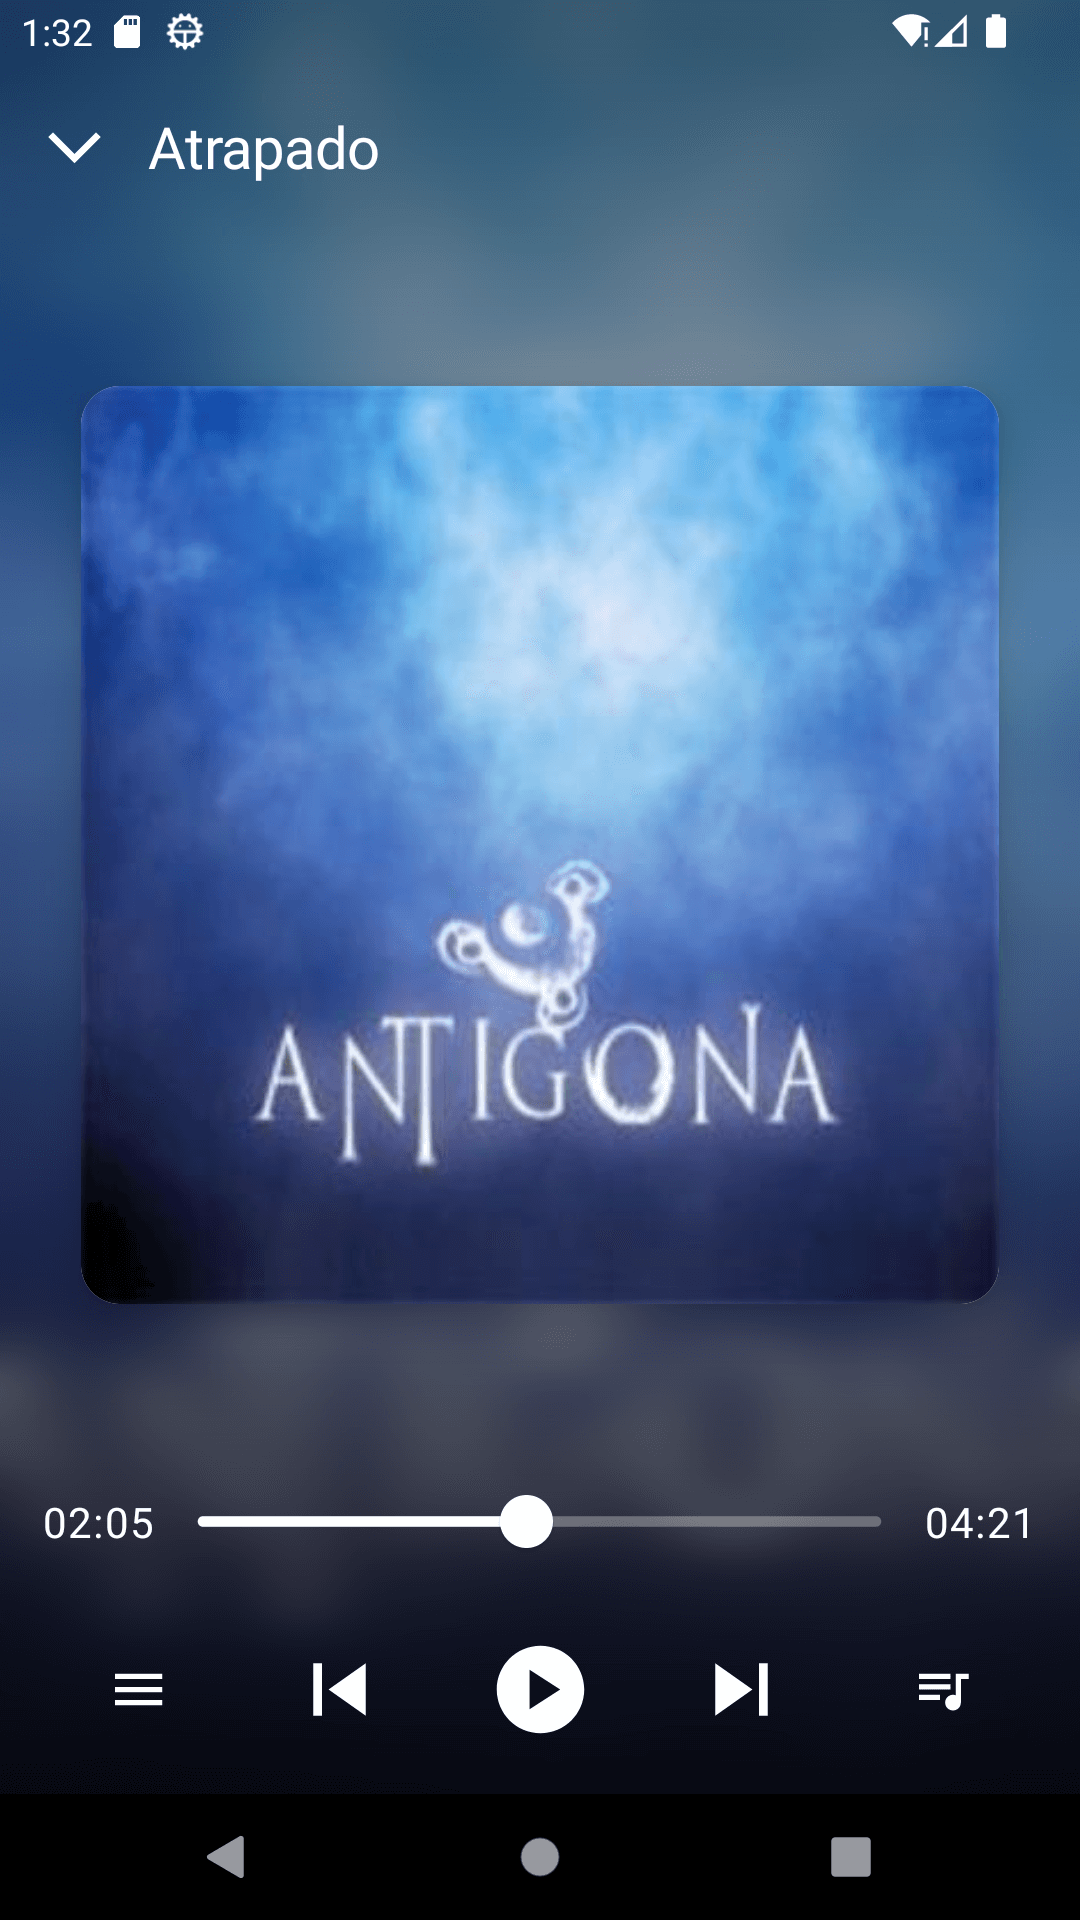
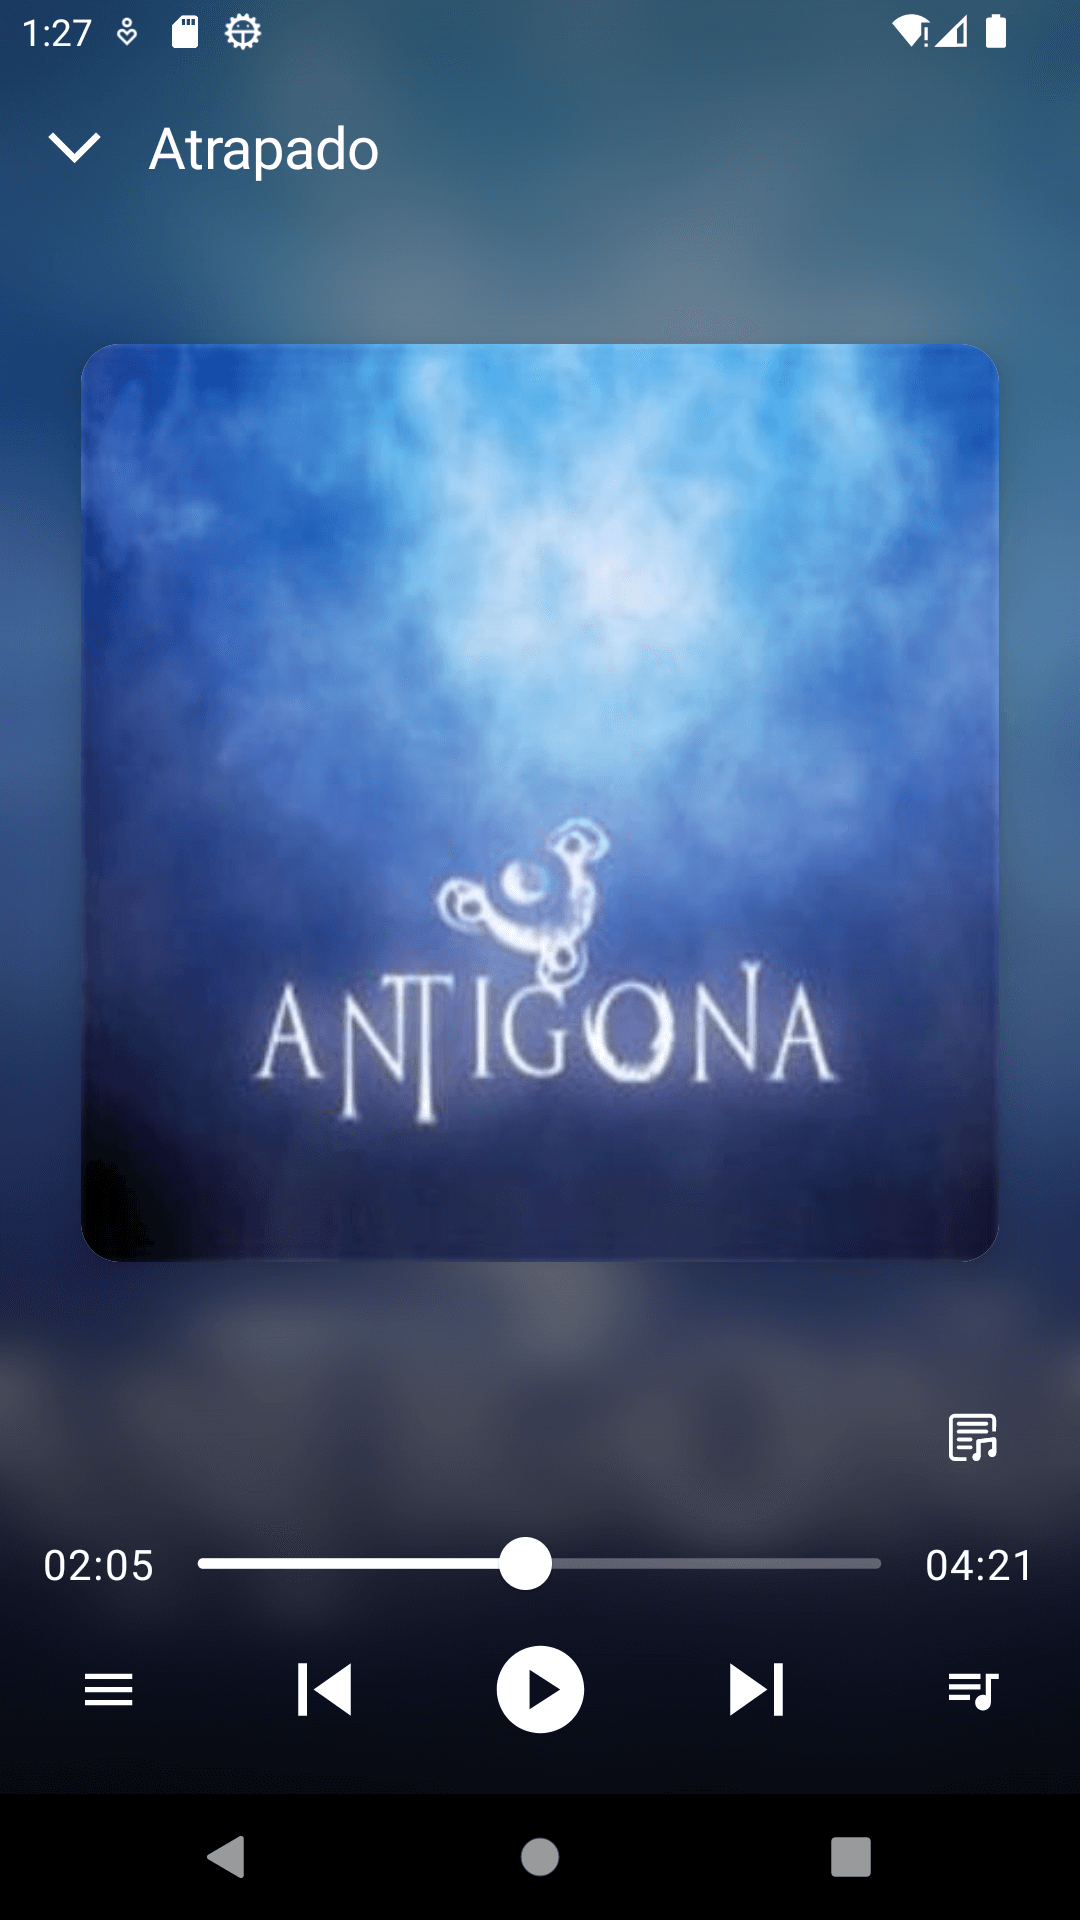
Upgrade version to 1.1.0

diff --git a/README_CN.md b/README_CN.md
@@ -28,6 +28,7 @@ SubTune 是一个免费的开源音乐流媒体 Android 客户端，适用于 Su
 - 设置最大比特率
 - 深色模式
 - 动态颜色
+- 歌词
 
 ## License
 

diff --git a/README.md b/README.md
@@ -28,6 +28,7 @@ SubTune is a free and open source music streaming Android client for Subsonic AP
 - Max bitrate settings
 - Dark theme
 - Dynamic color
+- Lyrics
 
 ## License
 
